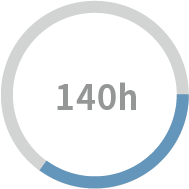
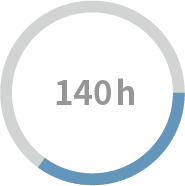
홈화면 로고위치 수정 및 인트로 원형그래프 변경

diff --git a/index.html b/index.html
@@ -13,7 +13,7 @@
         <nav id="navi">
             <ul>
                 <li>
-                    <img src="logo_small.png" align="left" class="logo_main" style="padding:0">
+                    <img src="logo_small.png" align="left" class="logo_main" style="padding:0; margin-top:5px">
                 </li>
                 <li>
                     <a href="introduce.html" class="nav_introduce">Introduce</a>
